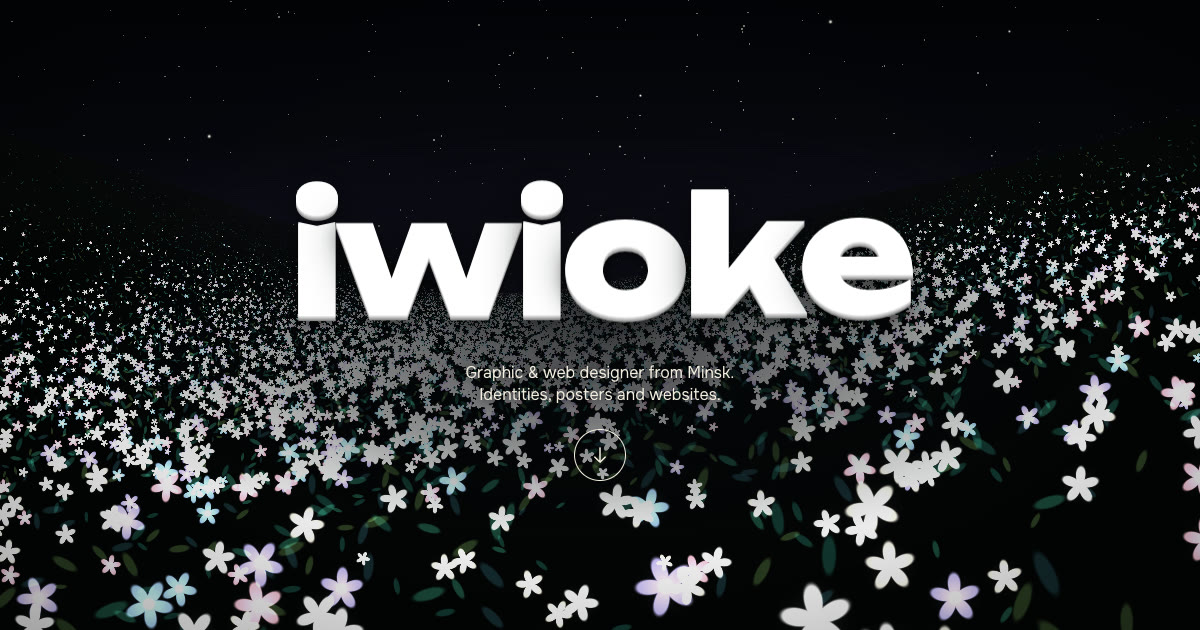
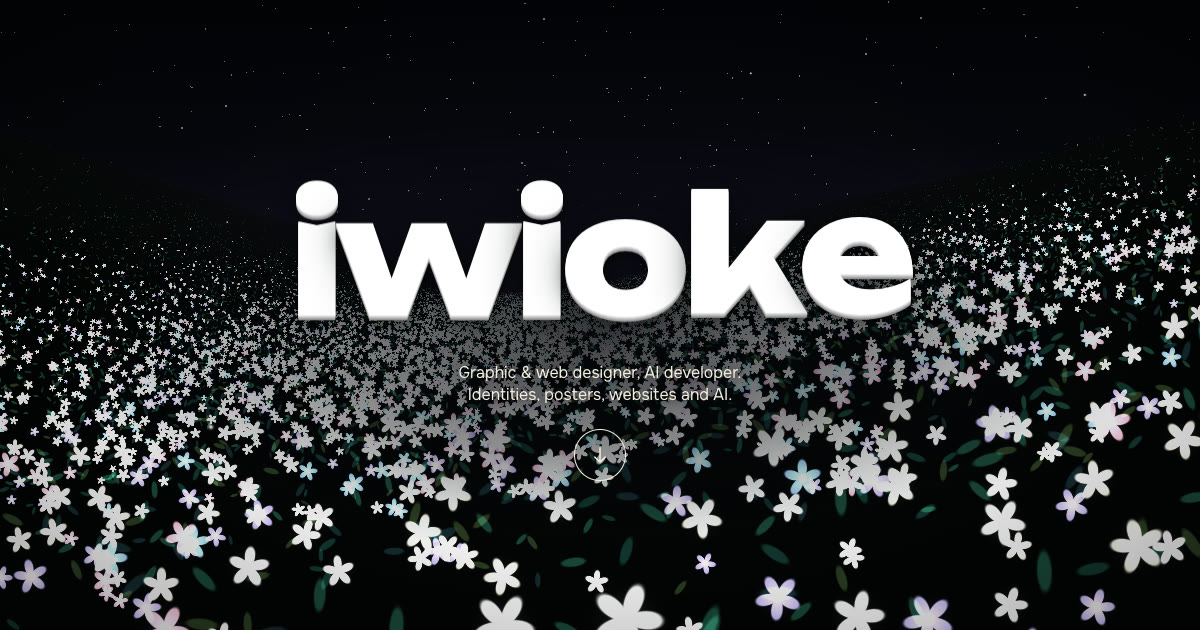
Present Maxim as an AI developer across the site.
Adds the AI developer role to the page title, meta description, hero
caption, structured data, process terms and custom-work pricing row, and
refreshes the social preview image.

Generated with [Devin](https://devin.ai)

Changed region(s): [[0.0, 0.2714, 1.0, 1.0], [0.8942, 0.2413, 0.925, 0.2714], [0.2467, 0.3317, 0.2775, 0.3619]]

diff --git a/content/site.ts b/content/site.ts
@@ -8,9 +8,9 @@ export const contacts = {
 export const site = {
   name: "Maxim Matsulevich",
   handle: "iwioke",
-  title: "iwioke — Maxim Matsulevich, graphic & web designer",
+  title: "iwioke — Maxim Matsulevich, graphic & web designer, AI developer",
   description:
-    "Portfolio of Maxim Matsulevich (iwioke), a graphic and web designer from Minsk: brand identities, posters and multilingual websites — from idea to code.",
+    "Portfolio of Maxim Matsulevich (iwioke), a graphic & web designer and AI developer from Minsk: brand identities, posters, multilingual websites and AI-powered solutions.",
   nav: [
     {href: "#works", label: "Work"},
     {href: "#prices", label: "Pricing"},
@@ -19,7 +19,7 @@ export const site = {
   navCta: "Message me",
   hero: {
     title: "iwioke",
-    caption: ["Graphic & web designer from Minsk.", "Identities, posters and websites."],
+    caption: ["Graphic & web designer, AI developer.", "Identities, posters, websites and AI."],
     go: "View work",
   },
   works: {
@@ -53,7 +53,7 @@ export const services = [
   {title: "Brand identity", description: "Logo, colour system, typography, graphic elements, a basic brand book and applications.", price: "$600–1,200"},
   {title: "Poster design", description: "An original poster, ad banner or editorial layout built on typography and a clear visual idea.", price: "$80–150"},
   {title: "Website design", description: "Design and development in one project: Figma layouts and a responsive build of the finished site.", price: "$1,050–2,250"},
-  {title: "Your own idea", description: "Custom work: web apps, process automation, interfaces and other non-standard digital projects.", price: "from $30/hr", custom: true},
+  {title: "Your own idea", description: "Custom work: AI solutions, web apps, process automation, interfaces and other digital projects.", price: "from $30/hr", custom: true},
 ] as const;
 
 export const steps = [
@@ -63,7 +63,7 @@ export const steps = [
   {title: "Final files", text: "You receive production-ready files for print, web or development."},
 ] as const;
 
-export const terms = ["based in Minsk, Belarus", "working remotely", "design + development", "telegram or email"] as const;
+export const terms = ["based in Minsk, Belarus", "working remotely", "design + AI development", "telegram or email"] as const;
 
 export const contactLinks = [
   {href: contacts.telegram.href, label: `Message ${contacts.telegram.handle}`},

diff --git a/app/page.tsx b/app/page.tsx
@@ -13,7 +13,7 @@ const jsonLd = {
   "@type": "Person",
   name: site.name,
   alternateName: site.handle,
-  jobTitle: "Graphic & web designer",
+  jobTitle: "Graphic & web designer, AI developer",
   address: {"@type": "PostalAddress", addressLocality: "Minsk", addressCountry: "BY"},
   email: contacts.email.address,
   ...(siteUrl ? {url: siteUrl} : {}),
